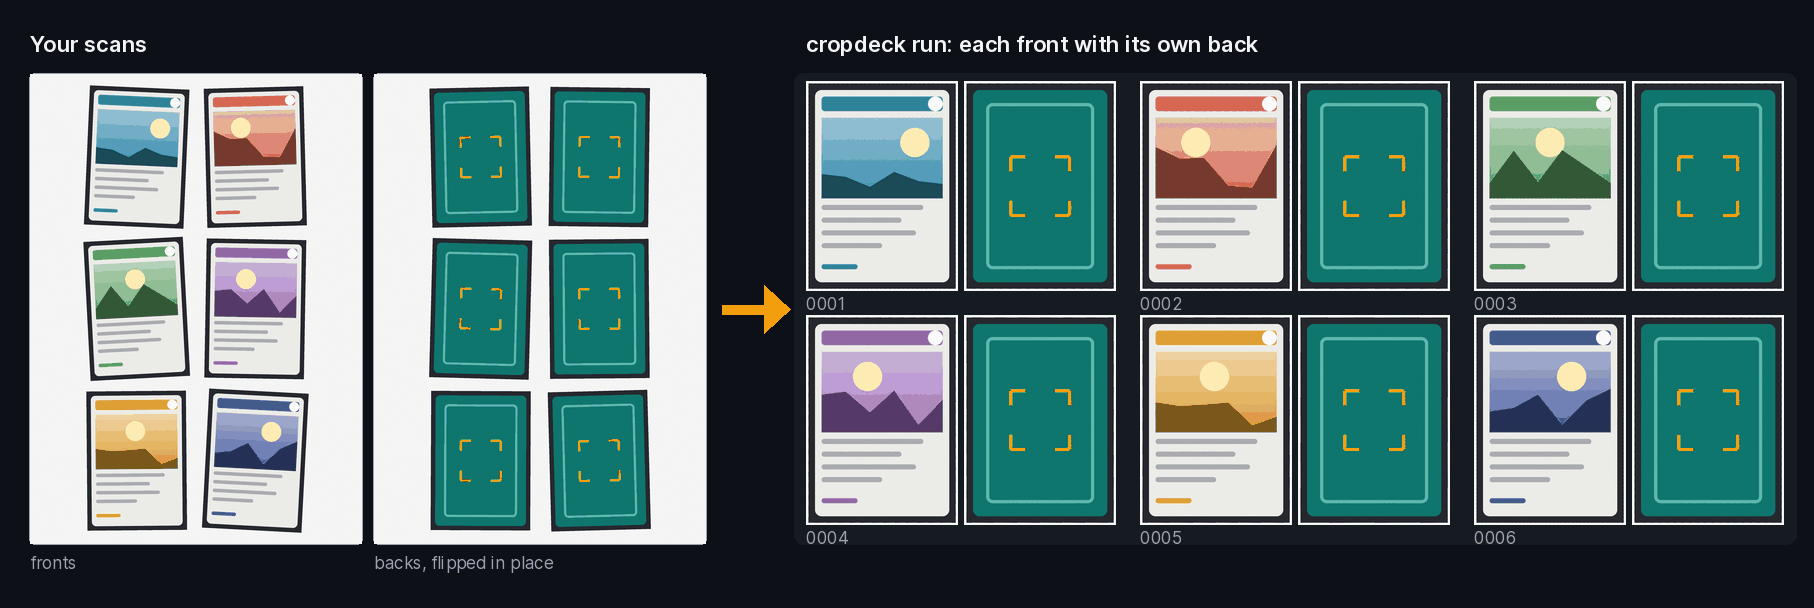
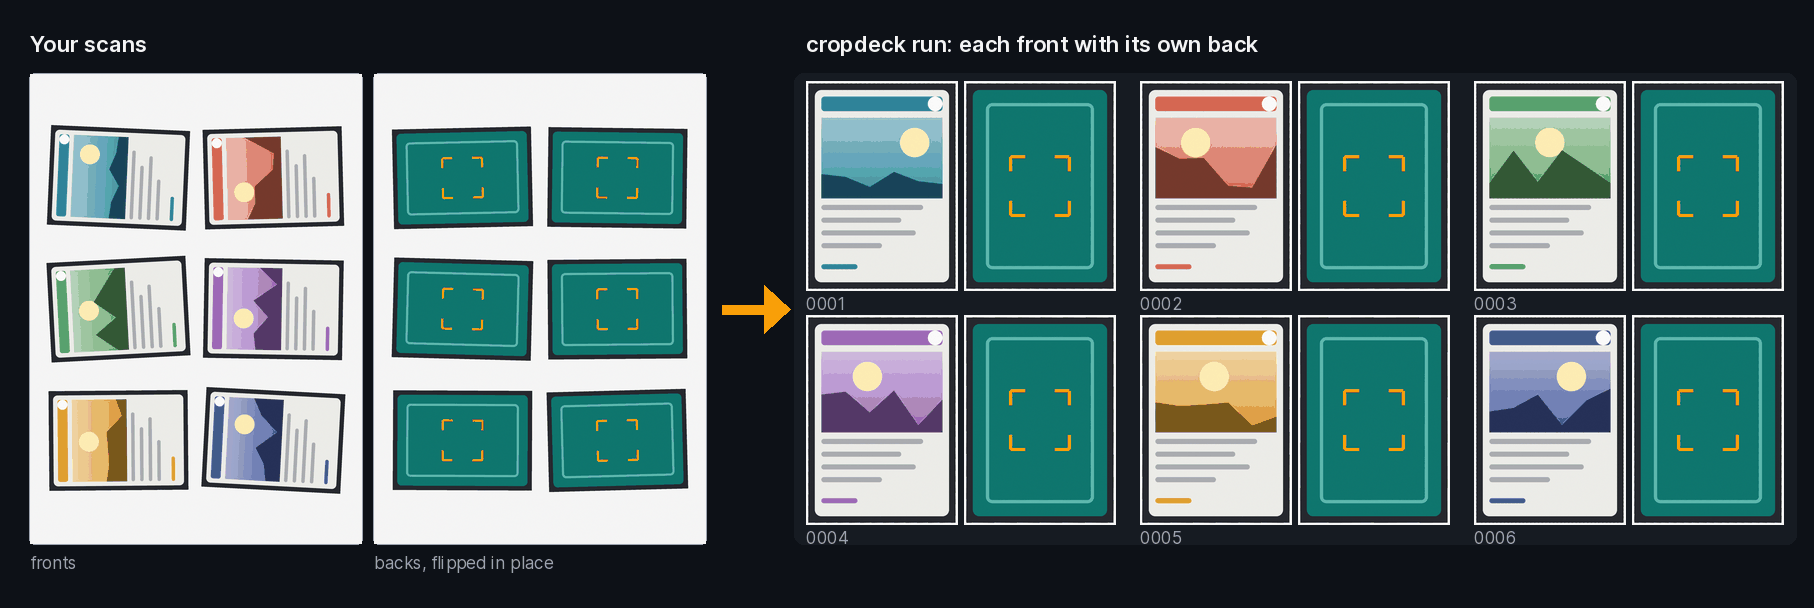
docs: show the sideways layout in the picture and the scanning guide

diff --git a/tools/demo_image.py b/tools/demo_image.py
@@ -114,7 +114,9 @@ def back() -> np.ndarray:
 
 def cut_tray() -> tuple[np.ndarray, np.ndarray, list[tuple[np.ndarray, np.ndarray]]]:
     """A synthetic tray, run through the real split step. Returns both scans and the pairs."""
-    fronts, backs, _ = synth.tray(seed=7, front=front, back=back(), marked=False)
+    fronts, backs, _ = synth.tray(
+        seed=7, layout="2x3-sideways", front=front, back=back(), marked=False
+    )
     with tempfile.TemporaryDirectory() as tmp:
         scans, out = Path(tmp, "scans"), Path(tmp, "sorted")
         scans.mkdir()

diff --git a/docs/scanning.md b/docs/scanning.md
@@ -22,10 +22,11 @@ have already cut (`sorted/.cardsplit-state.json`), so finished scans are simply 
 
 ## Layout
 
-- 2 × 3 cards per scan works; 3 × 3 is faster (12 + 12 passes for 100 cards instead of 17 + 17).
-  Tell the tools with `cropdeck run --expect 9`.
-- 4 × 2 with every card lying sideways — four along the long side of the glass, two across —
-  leaves the most room between cards: about 34 mm across and 45 mm down on A4. Use
+- 6 cards per scan, two across and three down, either standing upright or lying sideways — sideways
+  leaves far more room between the rows. 3 × 3 upright is faster (12 + 12 passes for 100 cards
+  instead of 17 + 17); tell the tools with `cropdeck run --expect 9`.
+- 8 cards: lying sideways, two across and four down (a fourth row under the sideways six). It
+  leaves about 34 mm across and 45 mm down on A4 to share between the gaps and edges. Use
   `cropdeck run --expect 8`. Sideways cards are turned clockwise to stand up; lay them all the same
   way, and if they come out upside down, turn them the other way round next time (or cut that tray
   with `cropdeck split … --rotate 180`). Tested with synthetic trays in `tests/test_pipeline.py`.
